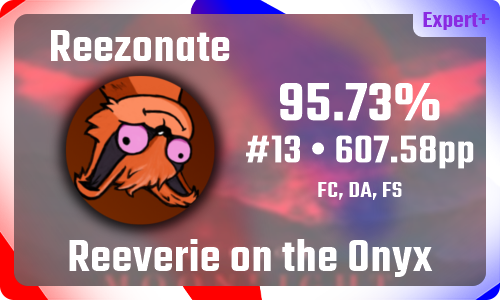
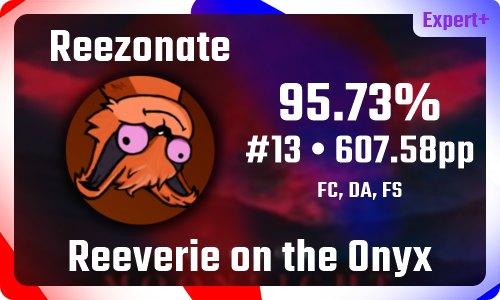
:derp:

diff --git a/EmbedGenerator/EmbedGenerator/EmbedGenerator.cs b/EmbedGenerator/EmbedGenerator/EmbedGenerator.cs
@@ -13,7 +13,7 @@ internal class EmbedGenerator {
     #region Constants
 
     private static readonly FloatColor BackgroundColor = FloatColor.White;
-    private static readonly FloatColor CoverTintColor = new(1.0f, 0.6f, 0.6f, 0.6f);
+    private static readonly FloatColor CoverTintColor = new(0.6f, 0.6f, 0.6f, 1.0f);
     private const int CoverBlurRadius = 4;
 
     private readonly NumberFormatInfo _numberFormatInfo = new() {
